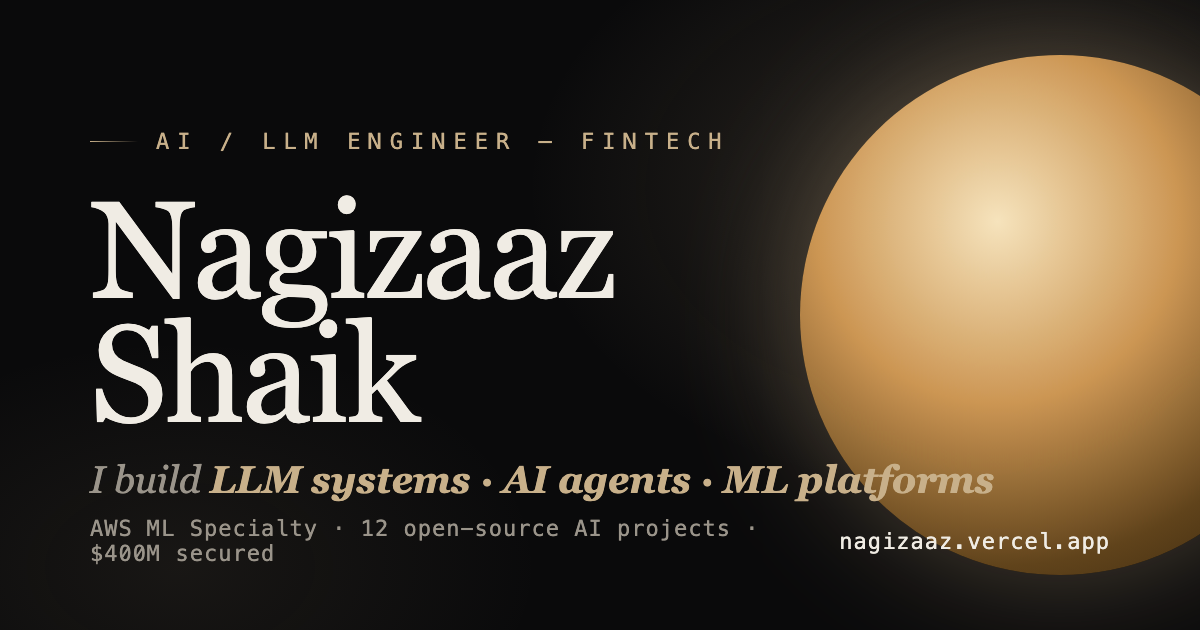
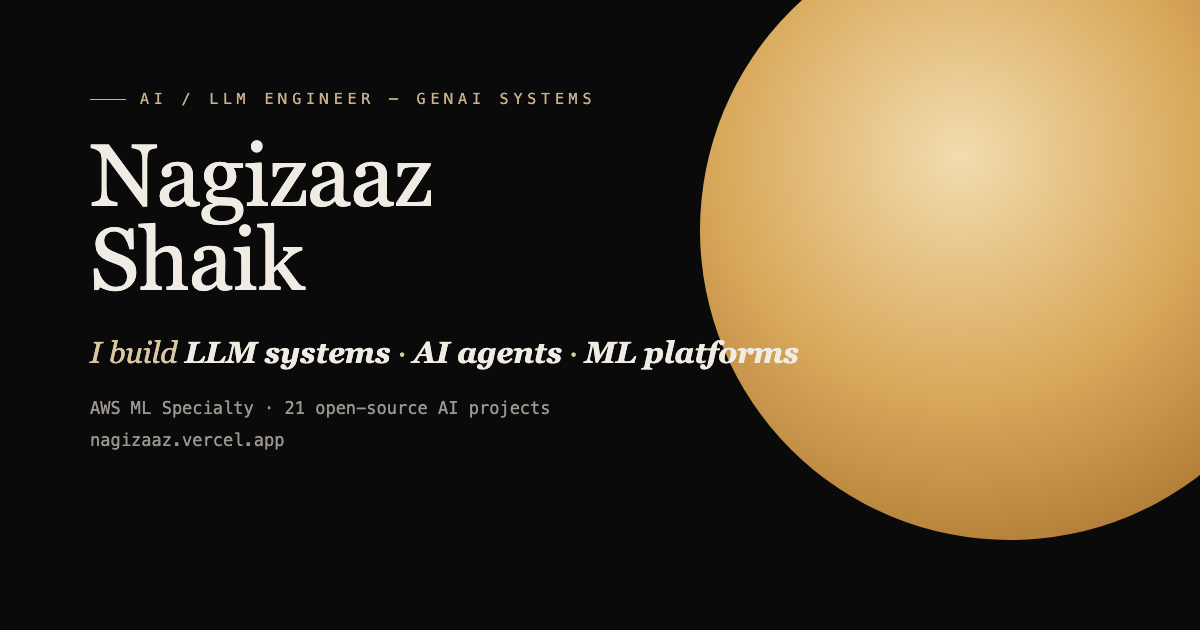
feat: broaden positioning to GenAI Systems, add downloadable resume
Reframes copy from fintech-exclusive to GenAI-broad (fintech kept as
a highlighted strength, not the only lens) across Hero, meta tags,
OG/Twitter cards, and the pre-hydration skeleton — targets the wider
GenAI/AI-ML hiring market rather than fintech-only reqs. Adds a
downloadable resume PDF with phone number and zip code stripped
(previously removed for the same PII reason), replacing the
mailto-only "resume on request" flow. Regenerates the OG share image
to match. Also fixes a stale "12 open-source AI projects" count to
21 in the OG description.

diff --git a/index.html b/index.html
@@ -4,7 +4,7 @@
   <meta charset="UTF-8" />
   <meta name="viewport" content="width=device-width, initial-scale=1.0" />
   <title>Nagizaaz Shaik — AI / LLM Engineer · ML Systems · Cloud</title>
-  <meta name="description" content="AI / LLM Engineer with 5+ years building production LLM systems, multi-agent pipelines, and MLOps infrastructure across fintech and tech. AWS ML Specialty certified." />
+  <meta name="description" content="AI / LLM Engineer with 5+ years building production GenAI systems — RAG pipelines, multi-agent orchestration, and LLMOps infrastructure, with deep roots in fintech. AWS ML Specialty certified." />
   <meta name="robots" content="index, follow" />
   <meta name="author" content="Nagizaaz Shaik" />
   <meta name="theme-color" content="#0a0a0b" />
@@ -18,8 +18,8 @@
   <meta property="og:type" content="website" />
   <meta property="og:site_name" content="Nagizaaz Shaik" />
   <meta property="og:url" content="https://nagizaaz.vercel.app/" />
-  <meta property="og:title" content="Nagizaaz Shaik — AI / LLM Engineer · Fintech" />
-  <meta property="og:description" content="Production AI for financial services — credit-risk models, multi-agent pipelines, and secure ML platforms. AWS ML Specialty certified · 12 open-source AI projects." />
+  <meta property="og:title" content="Nagizaaz Shaik — AI / LLM Engineer · GenAI Systems" />
+  <meta property="og:description" content="Production GenAI systems — RAG pipelines, multi-agent orchestration, and secure LLMOps platforms, with deep roots in fintech. AWS ML Specialty certified · 21 open-source AI projects." />
   <meta property="og:image" content="https://nagizaaz.vercel.app/og-image.png" />
   <meta property="og:image:width" content="1200" />
   <meta property="og:image:height" content="630" />
@@ -27,8 +27,8 @@
 
   <!-- Twitter / X -->
   <meta name="twitter:card" content="summary_large_image" />
-  <meta name="twitter:title" content="Nagizaaz Shaik — AI / LLM Engineer · Fintech" />
-  <meta name="twitter:description" content="Production AI for financial services — LLM systems, multi-agent pipelines, secure ML platforms. AWS ML Specialty certified." />
+  <meta name="twitter:title" content="Nagizaaz Shaik — AI / LLM Engineer · GenAI Systems" />
+  <meta name="twitter:description" content="Production GenAI systems — RAG pipelines, multi-agent orchestration, secure LLMOps platforms. AWS ML Specialty certified." />
   <meta name="twitter:image" content="https://nagizaaz.vercel.app/og-image.png" />
 
   <!-- Critical inline CSS — dark canvas + hero paint before any JS (LCP/FCP) -->
@@ -40,7 +40,7 @@
   </style>
 </head>
 <body>
-  <div id="root"><div id="pre"><div><div class="e">AI / LLM Engineer — Fintech</div><h1>Nagizaaz<br>Shaik</h1></div></div></div>
+  <div id="root"><div id="pre"><div><div class="e">AI / LLM Engineer — GenAI Systems</div><h1>Nagizaaz<br>Shaik</h1></div></div></div>
   <script type="module" src="/src/main.tsx"></script>
 </body>
 </html>

diff --git a/src/components/Hero.tsx b/src/components/Hero.tsx
@@ -71,7 +71,7 @@ export default function Hero() {
 
       <div className={styles.inner} ref={innerRef}>
         <p className={`${styles.eyebrow} ${styles.up}`} style={{ animationDelay: '0.05s' }}>
-          AI / LLM Engineer — Fintech
+          AI / LLM Engineer — GenAI Systems
         </p>
 
         <h1 className={styles.name}>
@@ -84,9 +84,9 @@ export default function Hero() {
         </div>
 
         <p className={`${styles.desc} ${styles.up}`} style={{ animationDelay: '0.46s' }}>
-          Production AI for financial services — credit-risk models, multi-agent
-          pipelines, and the secure ML platforms that ship them. I don't just write
-          code; I build systems that pass the audit.
+          Production GenAI systems — RAG pipelines, multi-agent orchestration, and
+          the secure LLMOps platforms that ship them, with deep roots in fintech.
+          I don't just write code; I build systems that pass the audit.
         </p>
 
         <p className={`${styles.openBadge} ${styles.up}`} style={{ animationDelay: '0.52s' }}>
@@ -95,8 +95,8 @@ export default function Hero() {
         </p>
 
         <div className={`${styles.ctas} ${styles.up}`} style={{ animationDelay: '0.6s' }}>
-          <a ref={m1} href="mailto:nagizaazs@gmail.com?subject=R%C3%A9sum%C3%A9%20request" className={styles.cta}>
-            <span>Résumé on request</span><span className={styles.arrow}>→</span>
+          <a ref={m1} href="/Nagizaaz_Shaik_Resume.pdf" download className={styles.cta}>
+            <span>Download résumé</span><span className={styles.arrow}>→</span>
           </a>
           <a ref={m2} href="#projects" className={styles.cta}>
             <span>Selected work</span><span className={styles.arrow}>→</span>
